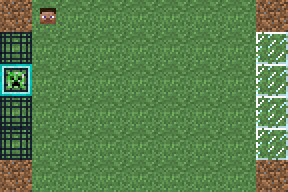
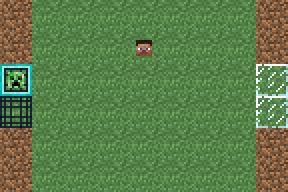
Update the doc

diff --git a/README.md b/README.md
@@ -4,7 +4,7 @@ A variant of the game described in the paper [He, He, et al. "Opponent modeling 
 
 ![screenshot](docs/screenshot.png "Screenshot")
 
-Customized Minecraft texture is used for displaying the tiles. Reinforcement learning agent controls the player 1 (shown as the player Steve head), the computer agent controls the player 2 (shown as the creeper head). The agent who has the ball is bordered by a blue square (in this case, the creeper has the ball shown in the image). The goal field height has been extended to 4. See the [paper][paper] for the game rules.
+Customized Minecraft texture is used for displaying the tiles. Reinforcement learning agent controls the player 1 (shown as the player Steve head), the computer agent controls the player 2 (shown as the creeper head). The agent who has the ball is bordered by a blue square (in this case, the creeper has the ball shown in the image). See the [paper][paper] for the game rules.
 
 ## Installation
 
